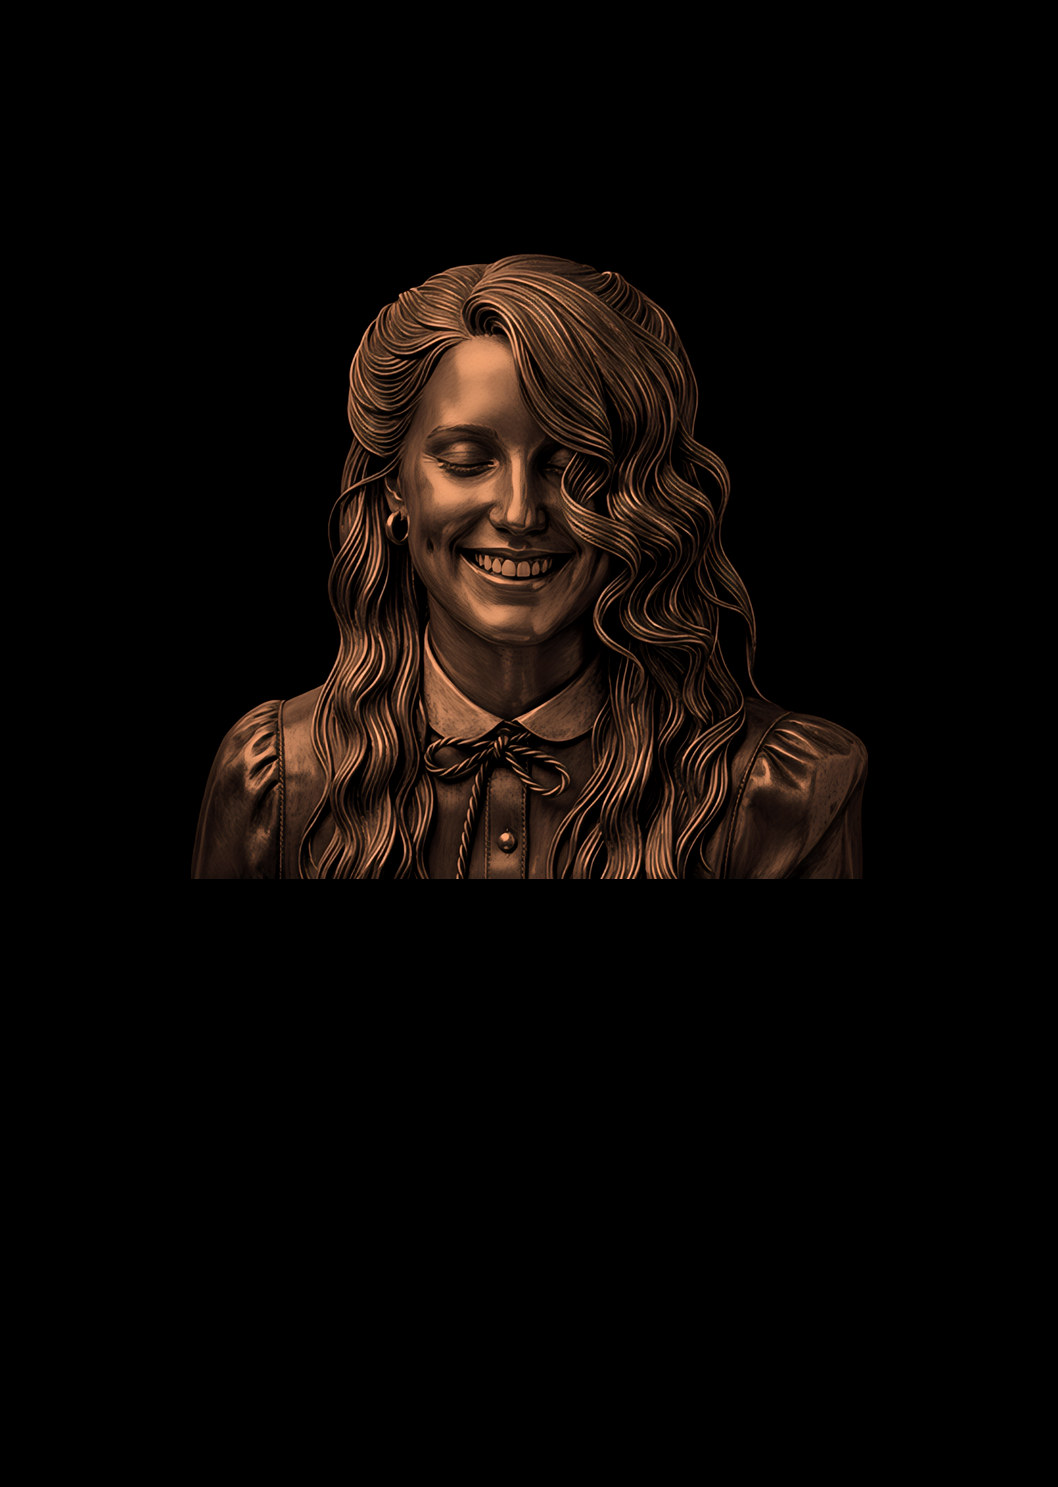
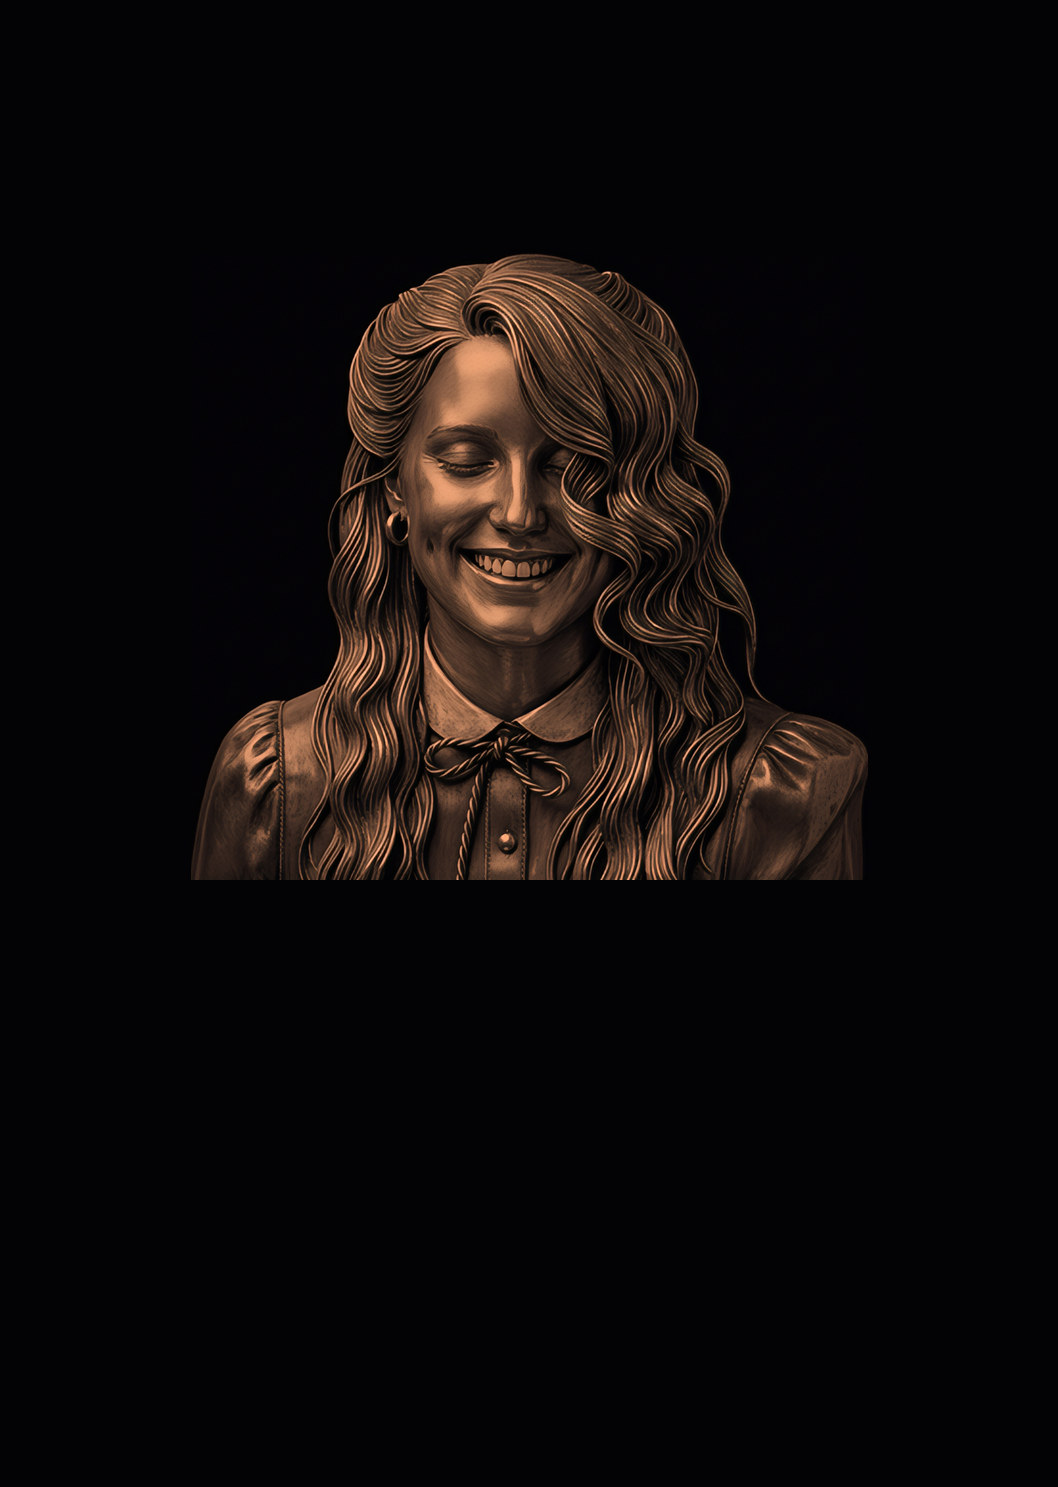
Classic v5: own bg framing (105% / bottom -2% / full opacity) and an undarkened plate

diff --git a/public/styles/design-v5.css b/public/styles/design-v5.css
@@ -438,10 +438,13 @@
 .design-v5 .gl-classic4 { --gold-2: var(--gold); }
 
 /* ---- Variation 8 · Classic v5 (Classic v4 + the copper portrait) ---- */
-/* The plate (woman-background-copper-label.jpg) is built on pure black, so the
-   label bed is black too — the shared #1b1f1a→#14170f gradient would otherwise
-   show through .gl-bg's 75% and green-tint the portrait's surround. */
+/* The plate (woman-background-copper-label.jpg) is built on black, so the label
+   bed is black too — the shared #1b1f1a→#14170f gradient would otherwise
+   green-tint the portrait's surround. */
 .design-v5 .gl-copper { background: #000; }
+/* Own framing: nearly full-bleed and at full strength, rather than the shared
+   112%/bottom:0/0.75 the ghosted plates use. */
+.design-v5 .gl-copper .gl-bg { bottom: -2%; width: 105%; opacity: 1; }
 
 /* ---- Maymorn Estate · Classic v4 gold, own background framing ---- */
 /* the sawmill artwork sits lower and slightly narrower than the Classic photo */
